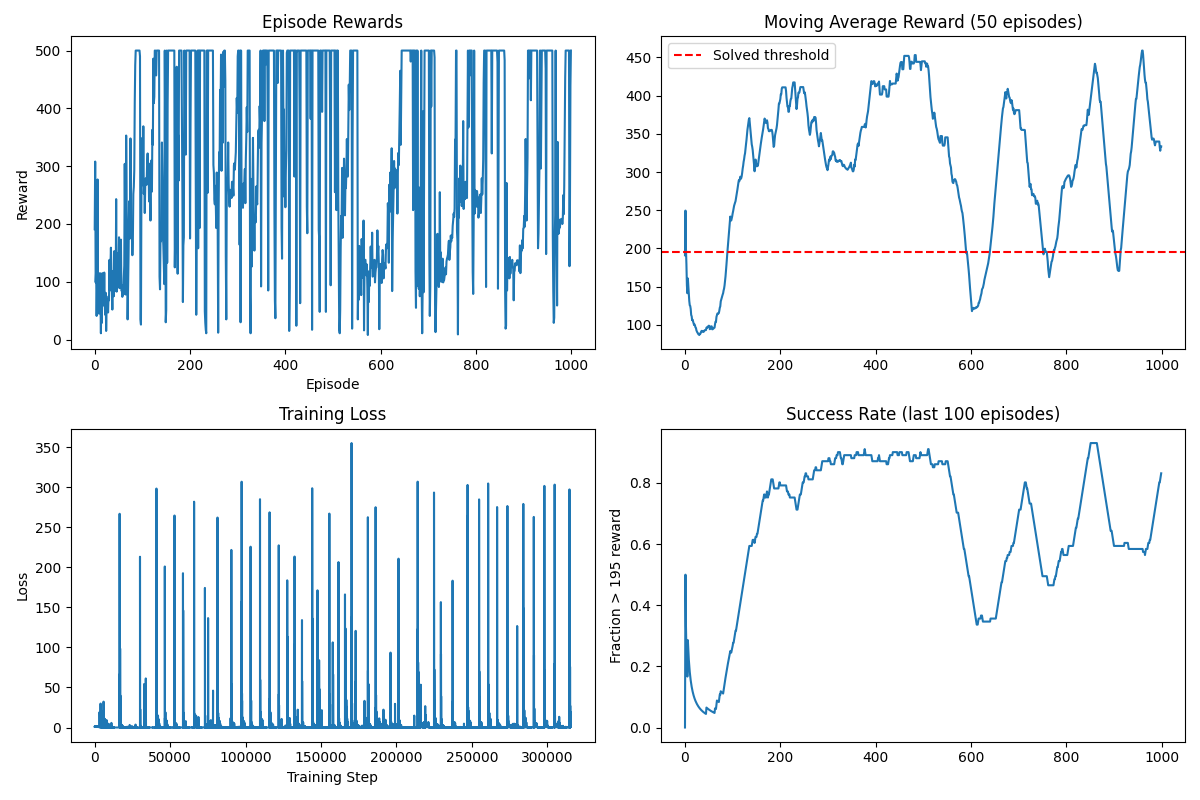
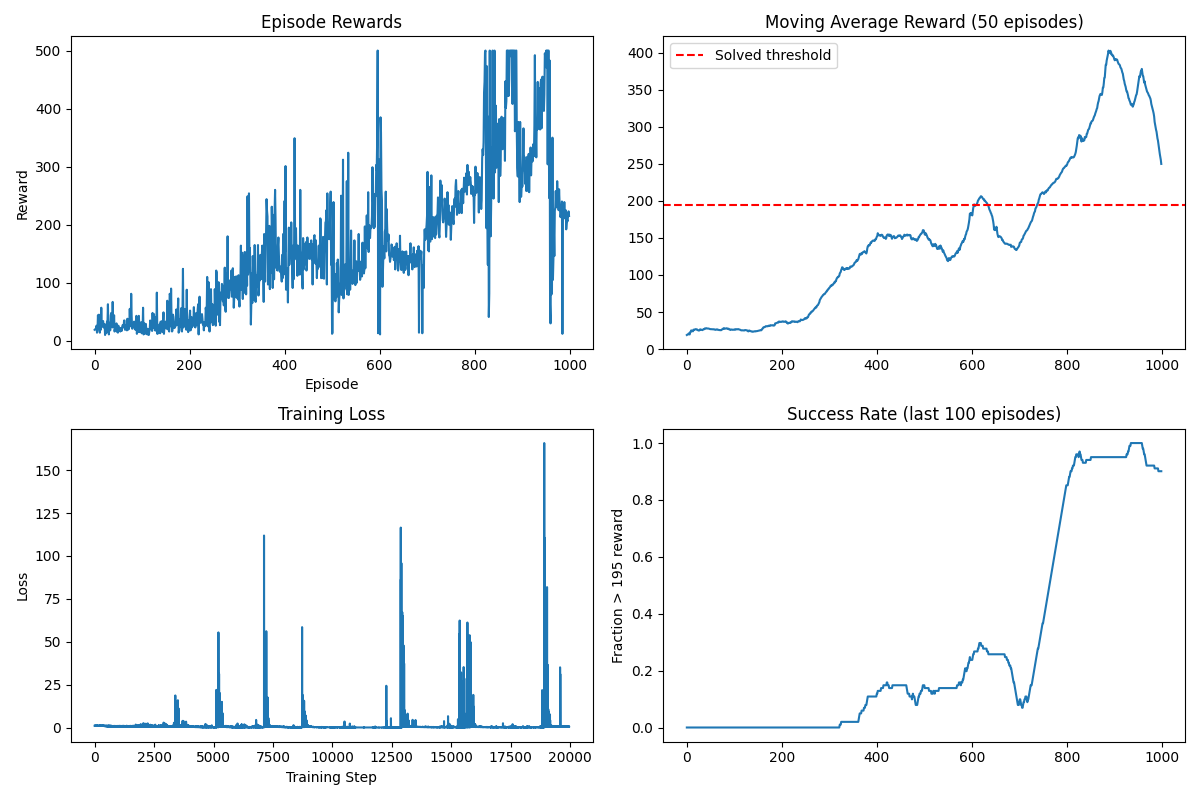
built hyperparameter optimiser

diff --git a/experiments/hyperparam_opt.py b/experiments/hyperparam_opt.py
@@ -1,0 +1,184 @@
+# a hyperparameter optimizer for the following parameters:
+# from DQN Agent: learning rate and capacity
+# from train step: gamma and batch size 
+# from select_action: epsilon (exploration rate)
+# and batch size
+#---------------------------------------------------------
+
+import optuna 
+from src.agent import DQNAgent
+from src.replay_buffer import ReplayBuffer
+from src.vect_env import VectorizedCartPole
+import sys
+import numpy as np
+sys.path.append('/Users/lucaskern/Desktop/Desktop/Github_repos/JAX_DQN_scalable/jax-dqn-scalable/src')
+
+def hyperparamter_training(trial):
+    # hyperparams to optimise incl. their ranges
+    learning_rate = trial.suggest_float("learning_rate", 1e-4, 1e-2, log=True)
+    gamma = trial.suggest_float("gamma", 0.95, 0.999)
+    epsilon = trial.suggest_float("epsilon", 0.01, 0.3) 
+    buffer_capacity = trial.suggest_int("buffer_capacity", 5000, 50000)    
+    batch_size = trial.suggest_categorical("batch_size", [16, 32, 64, 128])
+
+    env = VectorizedCartPole(num_envs=8)
+    agent = DQNAgent(
+    state_dim=4, 
+    action_dim=2, 
+    learning_rate=learning_rate,
+    buffer_capacity=buffer_capacity,
+    gamma=gamma,  
+    epsilon=epsilon)  
+    
+
+    states = env.reset()
+    episode_rewards_current = [0] * 8  
+    episode_lengths_current = [0] * 8  
+    
+    # Overall tracking
+    completed_episodes = []
+    training_losses = []
+    completed_episode_count = 0
+    step = 0
+    
+    while completed_episode_count < 200:
+        # Get actions for all 8 environments
+        actions = []
+        for i in range(8):
+            action = agent.select_action(states[i])
+            actions.append(int(action))
+        
+        # Step all environments
+        next_states, rewards, terminated, truncated = env.step(actions)
+        
+        # Store experiences for each environment
+        for i in range(8):
+            agent.store_experience(states[i], actions[i], rewards[i], 
+                                 next_states[i], terminated[i], truncated[i])
+            
+            # Update episode tracking
+            episode_rewards_current[i] += rewards[i] 
+            episode_lengths_current[i] += 1
+            
+            # Check if episode ended for this environment
+            if terminated[i] or truncated[i]:
+                completed_episodes.append(episode_rewards_current[i])
+                completed_episode_count += 1
+                print(f"Episode {completed_episode_count} ended with reward {episode_rewards_current[i]}")
+                
+                # Reset tracking for this environment
+                episode_rewards_current[i] = 0
+                episode_lengths_current[i] = 0
+                
+                # Break if we've completed 1000 episodes
+                if completed_episode_count >= 200:
+                    break
+        
+        # Break outer loop if we've completed 1000 episodes
+        if completed_episode_count >= 200:
+            break
+            
+        # Train agent 
+        loss = agent.train_step(batch_size = batch_size)
+        if loss is not None:
+            training_losses.append(float(loss))
+        
+        # Update states
+        states = next_states
+        step += 1
+        
+        # Print progress every 1000 steps
+        if step % 1000 == 0:
+            recent_rewards = completed_episodes[-50:] if len(completed_episodes) >= 50 else completed_episodes
+            avg_reward = np.mean(recent_rewards) if recent_rewards else 0
+            print(f"Step {step}: Completed {completed_episode_count} episodes, Avg reward: {avg_reward:.1f}")
+    
+    print("Training completed!")
+    recent_rewards = completed_episodes[-50:] if len(completed_episodes) >= 50 else completed_episodes
+    return np.mean(recent_rewards) if recent_rewards else 0
+
+
+
+
+def main():
+    study = optuna.create_study(direction="maximize")
+    study.optimize(hyperparamter_training, n_trials = 20)
+
+
+    print("Best params:", study.best_params)
+    print("Best performance:", study.best_value)
+
+    plot_optimization_results(study)
+
+
+    return study
+
+if __name__ == "__main__":
+    main()
+
+
+def plot_optimization_results(study):
+    import matplotlib.pyplot as plt
+    
+    # Get trial data
+    trials = study.trials
+    trial_numbers = [t.number for t in trials if t.value is not None]
+    trial_values = [t.value for t in trials if t.value is not None]
+    
+    # Create plots
+    plt.figure(figsize=(12, 8))
+    
+    # 1. Optimization history
+    plt.subplot(2, 2, 1)
+    plt.plot(trial_numbers, trial_values, 'b-o', alpha=0.7)
+    plt.axhline(y=study.best_value, color='r', linestyle='--', 
+               label=f'Best: {study.best_value:.2f}')
+    plt.xlabel('Trial Number')
+    plt.ylabel('Performance Score')
+    plt.title('Optimization Progress')
+    plt.legend()
+    plt.grid(True, alpha=0.3)
+    
+    # 2. Parameter values vs performance
+    plt.subplot(2, 2, 2)
+    learning_rates = [t.params['learning_rate'] for t in trials if t.value is not None]
+    plt.scatter(learning_rates, trial_values, alpha=0.6)
+    plt.xscale('log')
+    plt.xlabel('Learning Rate')
+    plt.ylabel('Performance')
+    plt.title('Learning Rate vs Performance')
+    plt.grid(True, alpha=0.3)
+    
+    # 3. Best parameters bar chart
+    plt.subplot(2, 2, 3)
+    best_params = study.best_params
+    param_names = list(best_params.keys())
+    param_values = list(best_params.values())
+    
+    plt.barh(param_names, param_values)
+    plt.xlabel('Parameter Value')
+    plt.title('Best Hyperparameters')
+    plt.grid(True, alpha=0.3)
+    
+    # 4. Trial distribution
+    plt.subplot(2, 2, 4)
+    plt.hist(trial_values, bins=10, alpha=0.7, edgecolor='black')
+    plt.axvline(x=study.best_value, color='r', linestyle='--', 
+               label=f'Best: {study.best_value:.2f}')
+    plt.xlabel('Performance Score')
+    plt.ylabel('Number of Trials')
+    plt.title('Performance Distribution')
+    plt.legend()
+    plt.grid(True, alpha=0.3)
+    
+    plt.tight_layout()
+    plt.show()
+    
+    # Print summary
+    print(f"\nOptimization Summary:")
+    print(f"Number of trials: {len(trials)}")
+    print(f"Best performance: {study.best_value:.2f}")
+    print(f"Best hyperparameters:")
+    for param, value in study.best_params.items():
+        print(f"  {param}: {value}")
+    

diff --git a/src/agent.py b/src/agent.py
@@ -6,11 +6,13 @@ from src.replay_buffer import ReplayBuffer
 import numpy as np
 
 class DQNAgent:
-    def __init__(self, state_dim, action_dim, learning_rate = 1e-3):
+    def __init__(self, state_dim, action_dim, learning_rate=1e-3, buffer_capacity=2000, gamma=0.99, epsilon=0.1):
         # set up
         self.network = DQN(action_dim)
-        self.replay_buffer = ReplayBuffer(capacity = 2000) #some high number?
+        self.replay_buffer = ReplayBuffer(capacity = buffer_capacity) #some high number?
         self.optimizer = optax.adam(learning_rate)
+        self.gamma = gamma
+        self.epsilon = epsilon
 
         # initialising network parameters
         key = jax.random.PRNGKey(0)
@@ -23,8 +25,8 @@ class DQNAgent:
         self.state_dim = state_dim
         self.action_dim = action_dim
 
-    def select_action(self, state, epsilon=0.1):
-        if np.random.uniform()< epsilon:
+    def select_action(self, state):
+        if np.random.uniform()< self.epsilon:
             action = np.random.choice(self.action_dim)
         else:
             q_values = self.network.apply(self.params, state)  
@@ -58,8 +60,7 @@ class DQNAgent:
             max_next_q_value = jnp.max(next_q_values, axis=1)
 
             # Q-learning target: 
-            gamma = 0.99 # future discount factor
-            target_q = rewards + gamma * max_next_q_value * (1-terminated) 
+            target_q = rewards + self.gamma * max_next_q_value * (1-terminated) 
                             
             # mean loss 
             loss = jnp.mean((current_q - target_q)**2)

diff --git a/src/vect_env.py b/src/vect_env.py
@@ -1,11 +1,14 @@
 import gymnasium as gym
 import jax.numpy as jnp
-import numpy as np
 
 class VectorizedCartPole:
     def __init__(self, num_envs=8):
         self.num_envs = num_envs
-        self.envs = [gym.make('CartPole-v1') for _ in range(num_envs)]
+        self.envs = []
+        for i in range(num_envs):
+            env = gym.make('CartPole-v1')
+            env.reset(seed=i)  # ✅ Different seed for each env
+            self.envs.append(env)
         self.dones = [False] * num_envs # which nr of envs are done 
     
     def reset(self):
@@ -27,13 +30,13 @@ class VectorizedCartPole:
         for i, (env, action) in enumerate(zip(self.envs, actions)):
             next_state, reward, terminated, truncated, info  = env.step(action)
 
-        if truncated or terminated:
-            next_state, info = env.reset ()
+            if truncated or terminated:
+                next_state, info = env.reset ()
 
-        next_states.append(next_state)
-        rewards.append(reward)
-        terminated_list.append(terminated)
-        truncated_list.append(truncated)
+            next_states.append(next_state)
+            rewards.append(reward)
+            terminated_list.append(terminated)
+            truncated_list.append(truncated)
 
         return (jnp.array(next_states),   
         jnp.array(rewards),        

diff --git a/experiments/train_vec.py b/experiments/train_vec.py
@@ -2,11 +2,9 @@ from src.vect_env import VectorizedCartPole
 from src.agent import DQNAgent
 import matplotlib.pyplot as plt
 import numpy as np
-import os
 
-def train():
-    os.makedirs('results', exist_ok=True)
-    
+
+def train():    
     # Create vectorized environment and agent
     env = VectorizedCartPole(num_envs=8)
     agent = DQNAgent(state_dim=4, action_dim=2)
